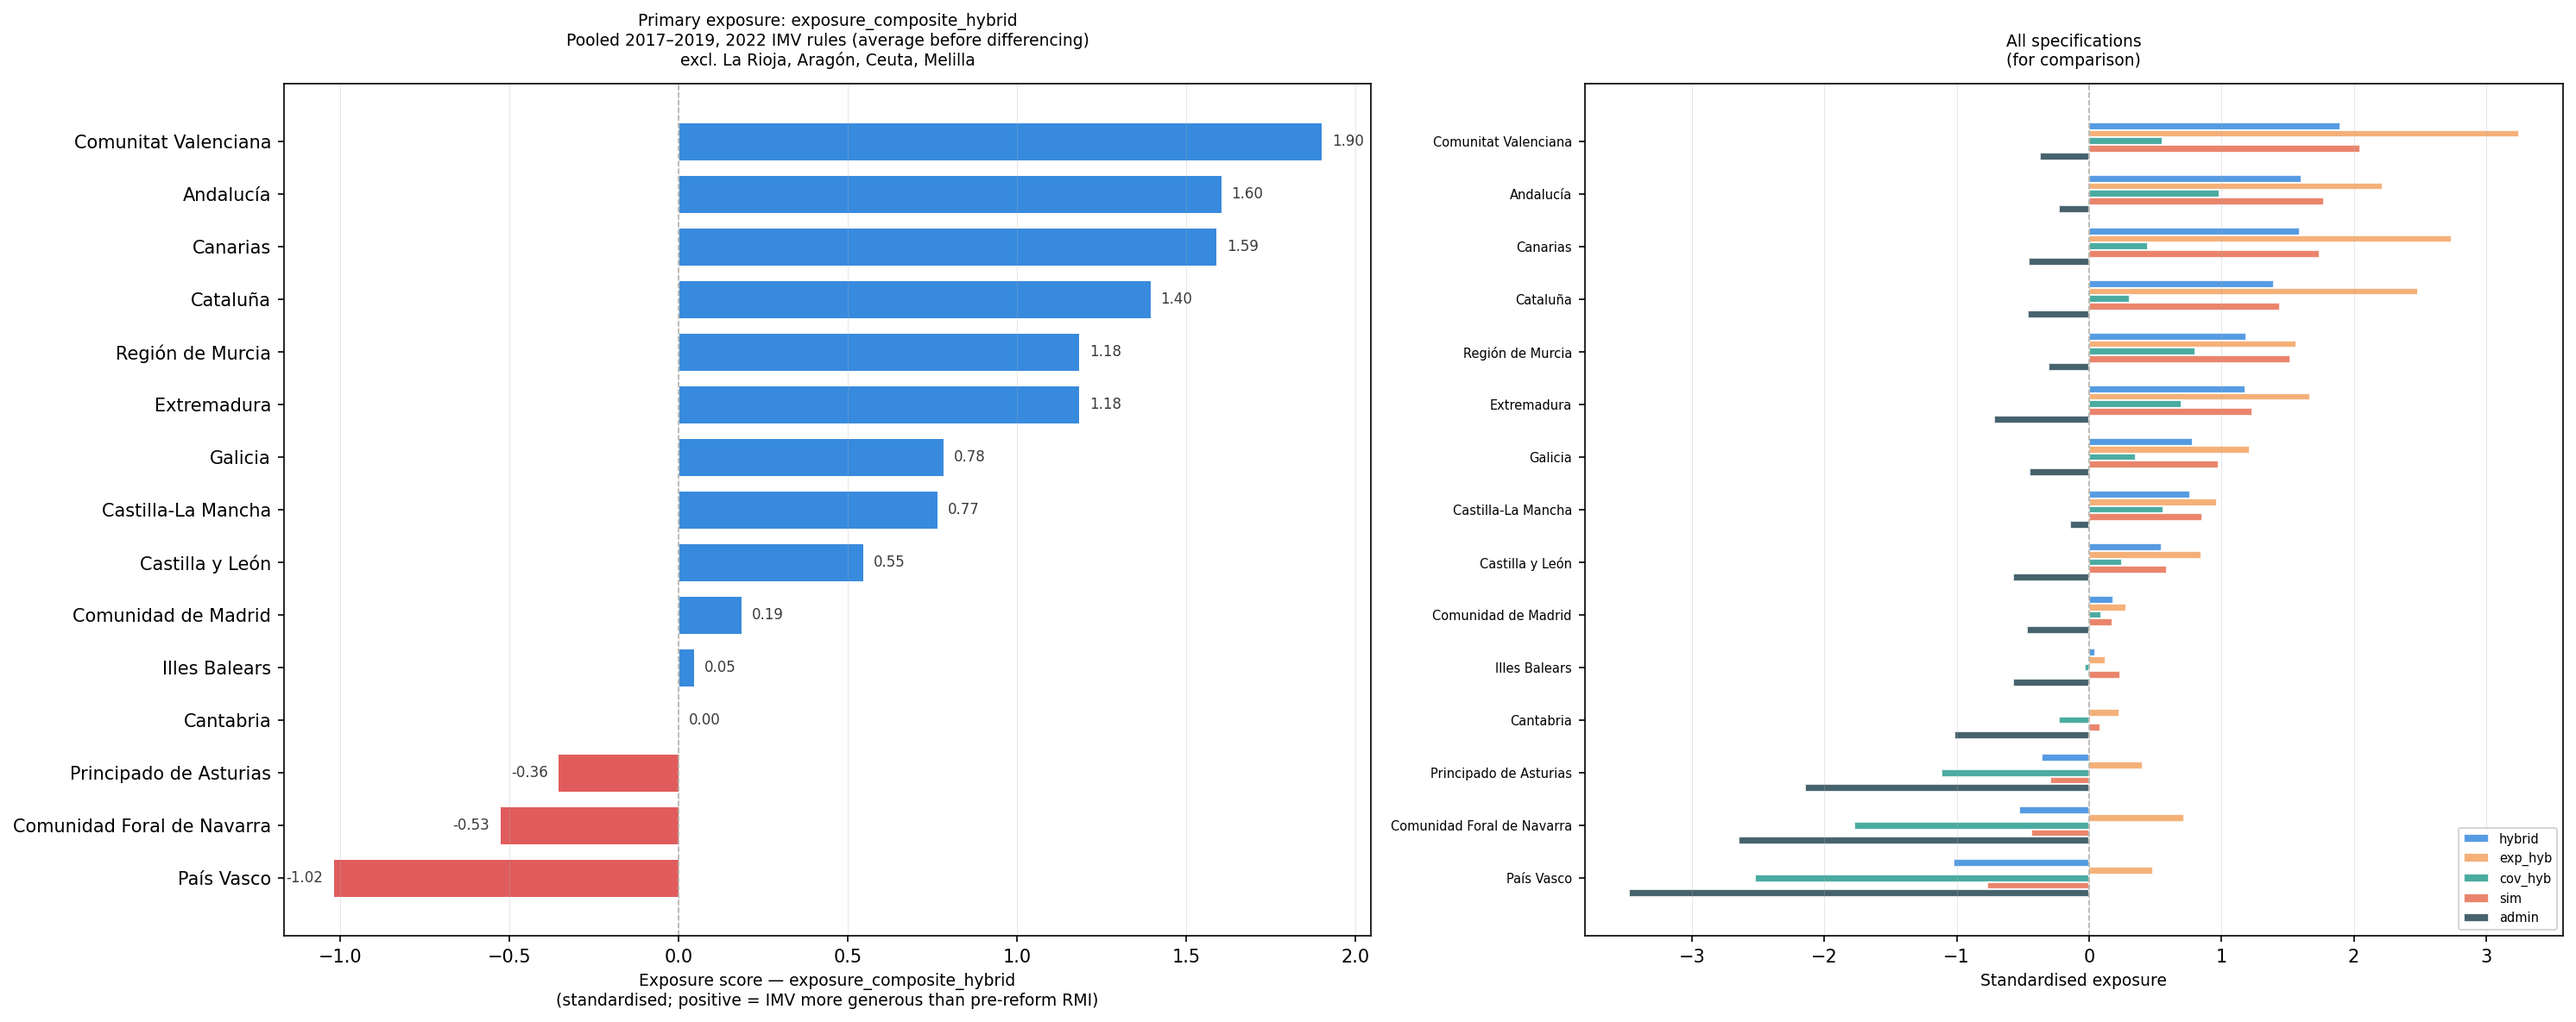
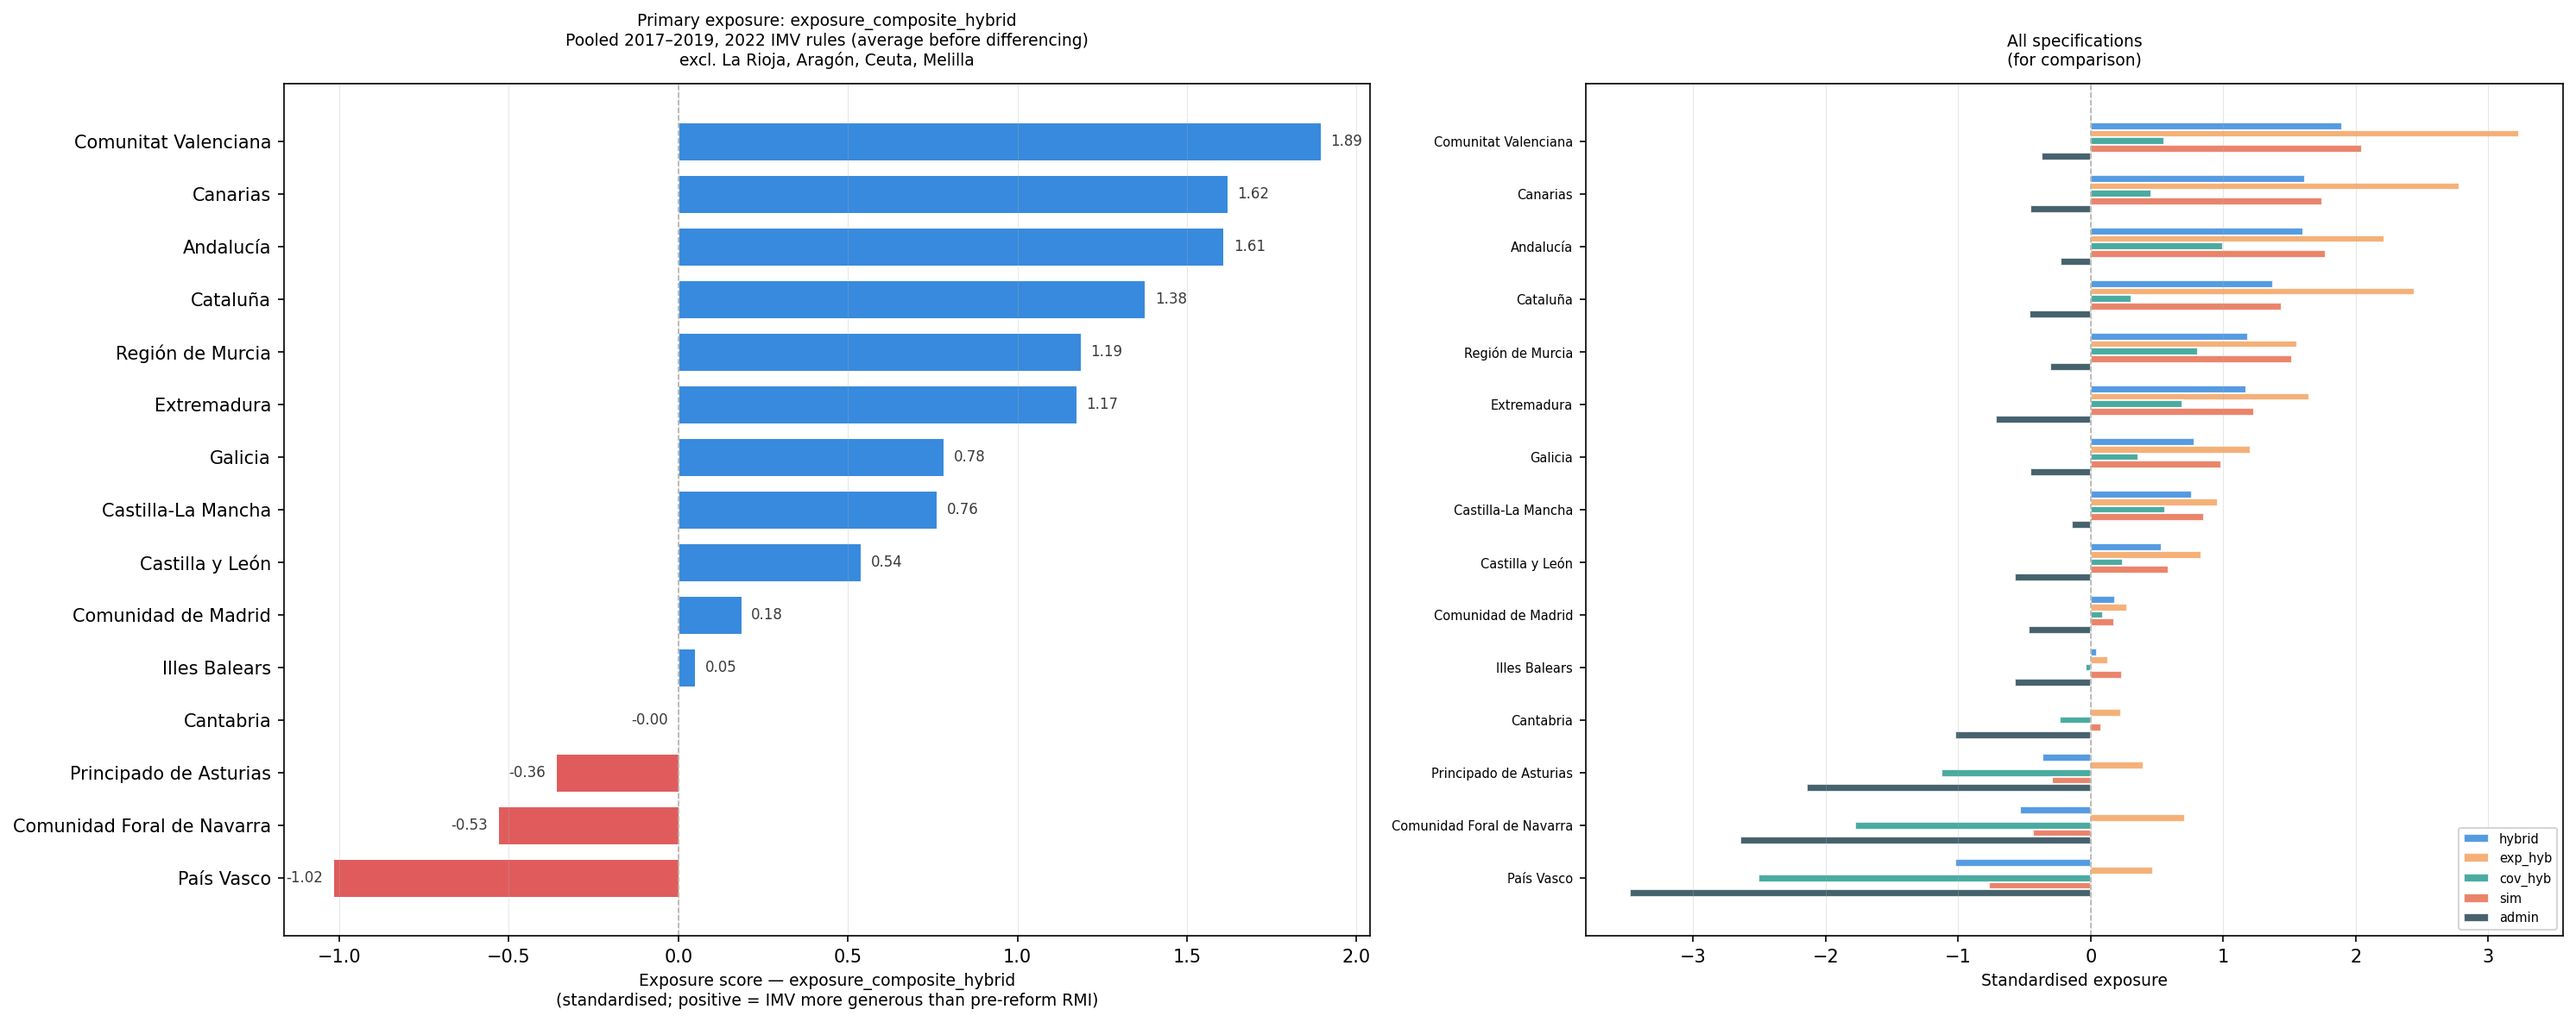
change demonator in the hybrid exposure variable

diff --git a/src/exposure_dimensions.py b/src/exposure_dimensions.py
@@ -181,12 +181,12 @@ def pool_dimensions(
 
     pooled["delta_exp_hybrid"] = (
         (pooled["imv_exp_sim"] - pooled["avg_rmi_exp_admin"]) /
-        pooled["pop"]
+        pooled["avg_pop_admin"]
     ).round(4)
 
     pooled["delta_cov_hybrid"] = (
         (pooled["imv_rec_sim"] - pooled["avg_titulares_admin"]) /
-        pooled["pop"] * 100
+        pooled["avg_pop_admin"] * 100
     ).round(4)
 
     pooled["delta_exp_sim"] = (
